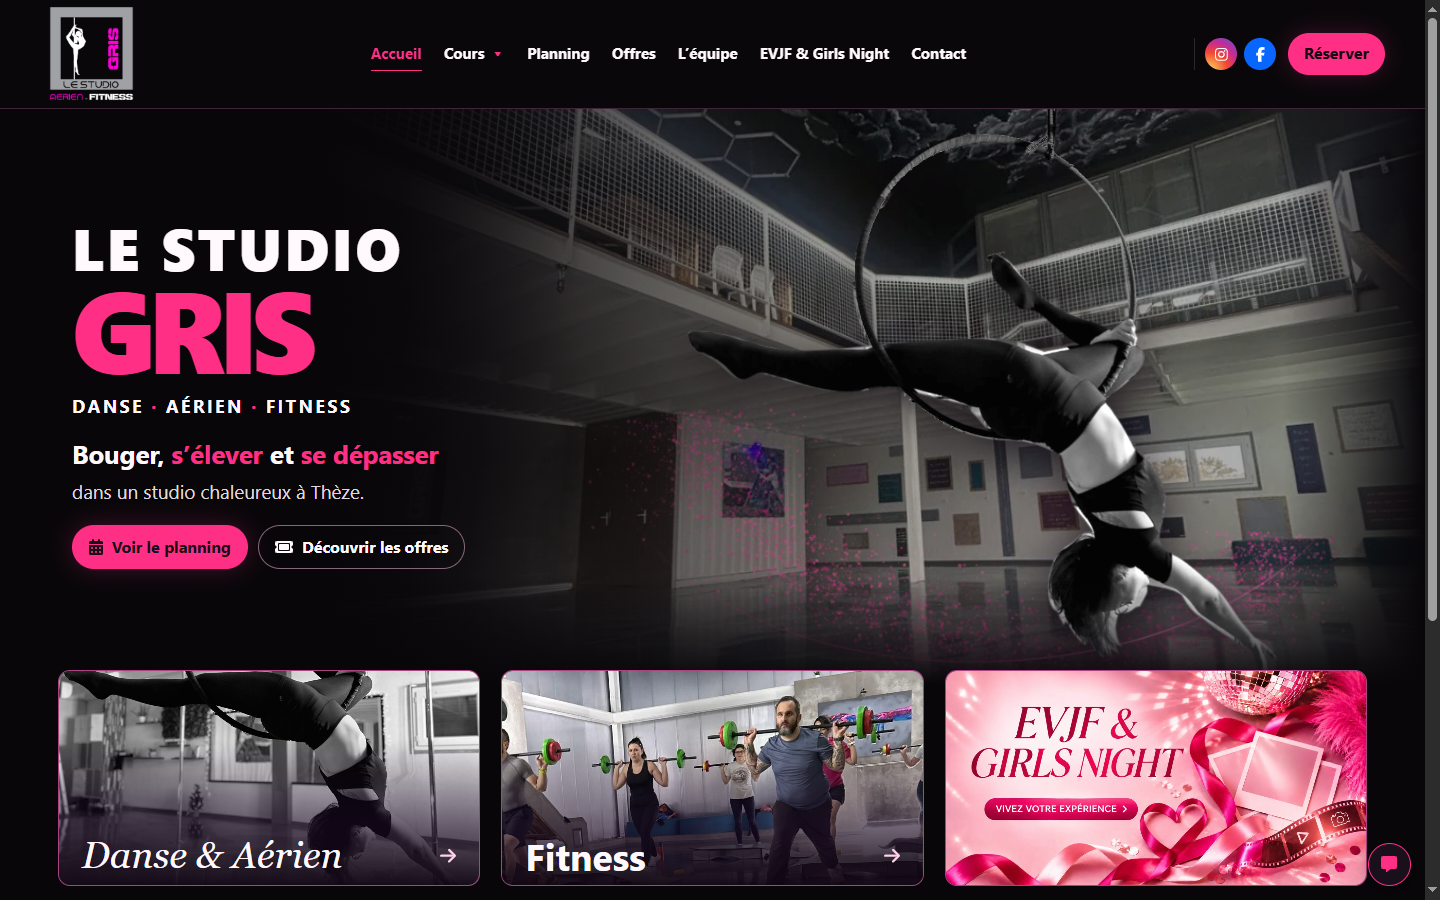
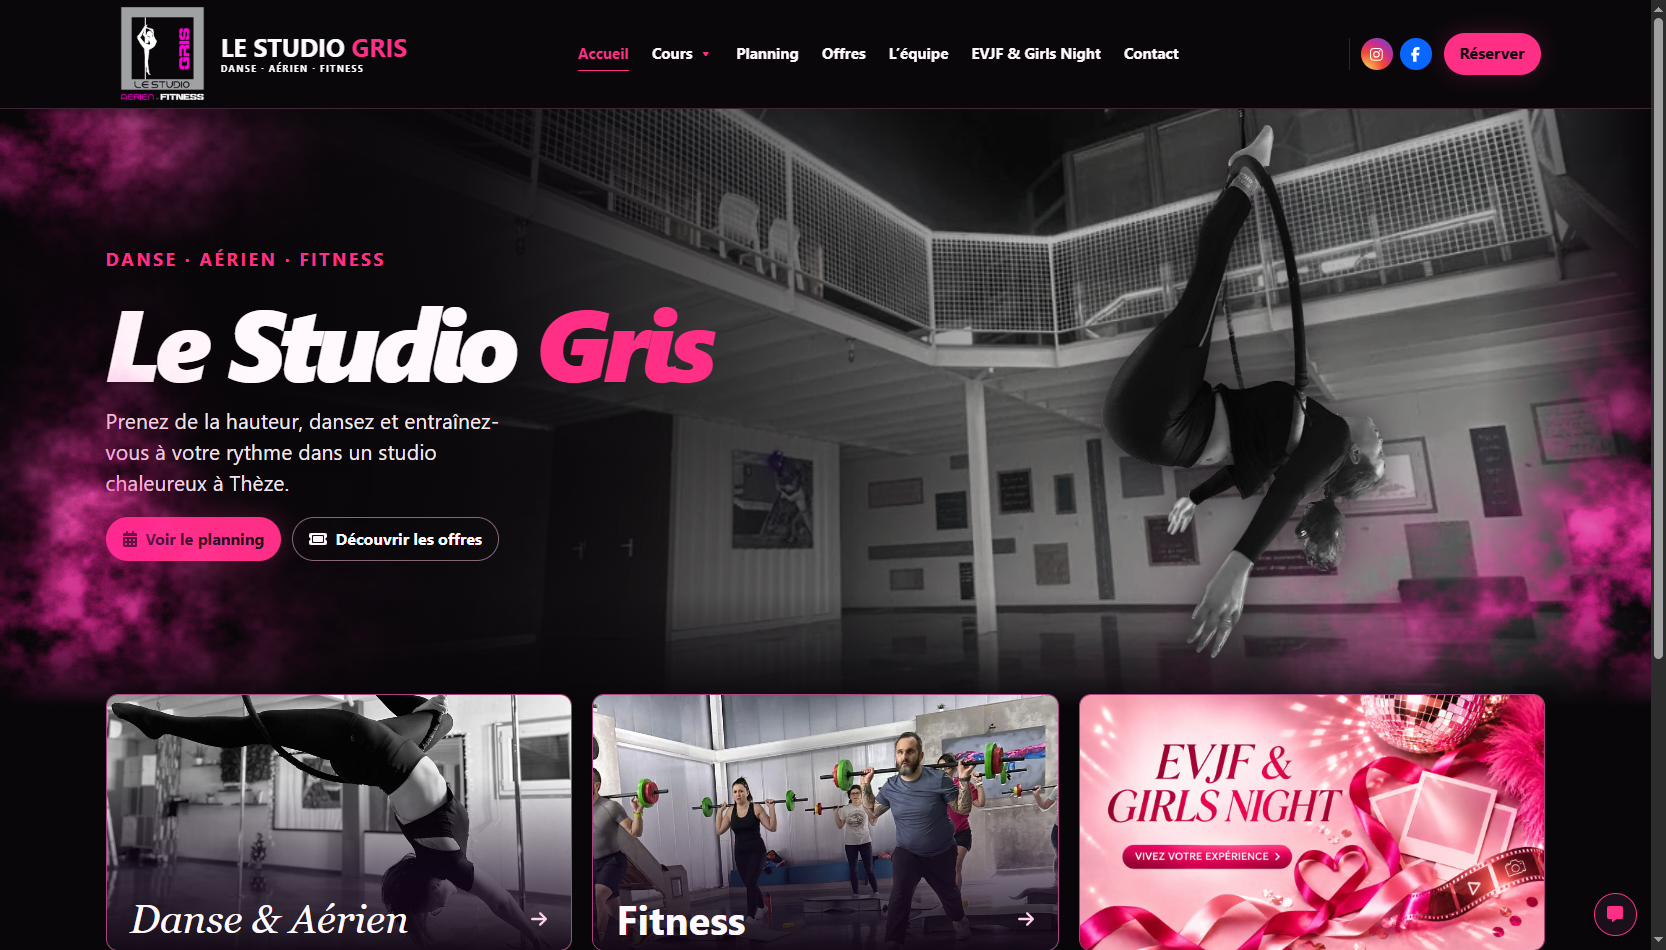
MAJ

diff --git a/src/styles/home.css b/src/styles/home.css
@@ -11,18 +11,19 @@
   background: linear-gradient(0deg, var(--home-ink), transparent 19%), linear-gradient(90deg, var(--home-ink) 1%, #080609e8 28%, #08060900 62%, #08060900 90%, var(--home-ink));
 }
 .hero-art img { position: absolute; }
-.hero-room { height: 100%; width: 78%; right: 0; object-fit: cover; object-position: 53% 56%; opacity: .8; mask-image: linear-gradient(90deg, transparent, #000 24%); }
-.hero-aerial { height: 106%; width: auto; max-width: none; right: clamp(4%, 10vw, 16%); top: -4%; filter: brightness(1.12) drop-shadow(0 8px 22px #0b030bbb); }
-.hero-dust { width: min(61vw, 890px); height: auto; bottom: -25%; right: 1%; opacity: .95; }
+.hero-room { height: 100%; width: 88%; right: 0; object-fit: cover; object-position: 53% 57%; opacity: .86; filter: grayscale(.76); mask-image: linear-gradient(90deg, transparent, #000 30%); }
+.hero-aerial { z-index: 2; height: 94%; width: auto; max-width: none; right: clamp(10%, 15vw, 22%); bottom: clamp(1.1rem, 2.5vw, 2.4rem); filter: brightness(1.06) drop-shadow(0 3px 16px #0b030b99); }
+.hero-dust {
+  width: 100%; height: 100%; object-fit: fill; inset: 0; z-index: 1; opacity: .92;
+  mask-image: linear-gradient(to bottom, #000 0 77%, #000c 86%, #0005 94%, transparent 100%);
+}
 .hero-inner { min-height: clamp(402px, 63svh, 630px); width: min(var(--home-width), 100% - clamp(2rem, 10vw, 11rem)); margin-inline: auto; display: flex; align-items: center; position: relative; }
 .hero-copy { padding: 2rem 0 2.6rem; }
-.hero-copy h1 { display: grid; width: fit-content; font-size: clamp(4rem, 8vw, 9rem); font-weight: 850; line-height: .8; letter-spacing: -.069em; text-transform: uppercase; margin-bottom: 1.15rem; }
-.hero-copy h1 span { font-size: .51em; letter-spacing: .05em; line-height: 1.15; }
-.hero-copy em { font-style: normal; color: var(--pink); }
-.hero-disciplines { color: #fff7fb; font-size: clamp(.83rem, 1.5vw, 1.15rem); letter-spacing: .12em; text-transform: uppercase; font-weight: 700; margin-bottom: 1rem; }
+.hero-copy h1 { font-size: clamp(3.25rem, 6.1vw, 7.4rem); font-weight: 850; font-style: italic; line-height: 1; letter-spacing: -.055em; margin-bottom: .85rem; }
+.hero-copy em { font-style: inherit; color: var(--pink); }
+.hero-disciplines { color: var(--pink); font-size: clamp(.83rem, 1.5vw, 1.15rem); letter-spacing: .12em; text-transform: uppercase; font-weight: 700; margin-bottom: 1rem; }
 .hero-disciplines span { color: var(--pink); }
-.hero-tagline { font-weight: 700; font-size: clamp(1.12rem, 2vw, 1.6rem); line-height: 1.35; margin-bottom: 1.25rem; }
-.hero-tagline small { color: #e1d8df; font-size: .74em; font-weight: 400; }
+.hero-tagline { color: #f2e8ee; max-width: 37ch; font-size: clamp(1rem, 1.65vw, 1.33rem); line-height: 1.45; margin-bottom: 1.25rem; }
 .hero-copy .primary-button, .hero-copy .secondary-button { gap: .55rem; }
 .hero-copy .primary-button { box-shadow: 0 0 24px #ff2f8640; }
 .hero-copy .secondary-button { background: #0c080e9c; border-color: #d5c4cf; }
@@ -46,19 +47,19 @@
 }
 @media (max-width: 900px) {
   .hero-inner { min-height: clamp(385px, 66vw, 495px); }
-  .hero-aerial { right: -1%; height: 94%; top: 0; }
+  .hero-aerial { right: 9%; height: 91%; }
   .hero-art::after { background: linear-gradient(0deg, var(--home-ink), transparent 28%), linear-gradient(90deg, var(--home-ink), #080609c9 30%, transparent 75%); }
 }
 @media (max-width: 610px) {
   .hero-inner { align-items: end; min-height: 560px; width: calc(100% - 2rem); }
   .hero-copy { padding: 1rem 0 1.7rem; }
-  .hero-copy h1 { font-size: clamp(3.5rem, 16vw, 5.2rem); margin-bottom: .7rem; }
+  .hero-copy h1 { font-size: clamp(2.6rem, 10vw, 4.4rem); margin-bottom: .7rem; }
   .hero-disciplines { margin-bottom: .6rem; }
   .hero-tagline { margin-bottom: .9rem; }
   .hero-art { bottom: auto; height: 385px; }
   .hero-room { width: 100%; object-position: center 54%; mask-image: none; }
-  .hero-aerial { right: max(-1rem, calc(50% - 180px)); top: -1.5rem; height: 90%; }
-  .hero-dust { width: min(110vw, 500px); bottom: -10%; right: -10%; }
+  .hero-aerial { right: max(1.75rem, calc(48% - 95px)); bottom: 1.4rem; height: 90%; }
+  .hero-dust { width: 112%; left: -6%; height: 103%; opacity: .82; }
   .hero-art::after { background: linear-gradient(0deg, var(--home-ink), #080609c9 14%, transparent 54%); }
   .home-universes { grid-template-columns: 1fr; width: calc(100% - 2rem); margin-top: 0; }
   .universe-card-label { justify-content: flex-start; gap: .6rem; font-size: clamp(1.55rem, 7vw, 2.4rem); }

diff --git a/src/pages/HomePage.tsx b/src/pages/HomePage.tsx
@@ -24,15 +24,15 @@ export default function HomePage() {
     <section className="immersive-hero">
       <div className="hero-art">
         <img className="hero-room" src={media + 'salle.webp'} width="1050" height="1037" alt="" loading="eager" />
-        <img className="hero-dust" src={media + 'poudre-rose.webp'} width="800" height="700" alt="" />
-        <img className="hero-aerial" src={media + 'cerceau-detoure.webp'} width="790" height="804"
+        <img className="hero-dust" src={media + 'brume-fuchsia.webp'} width="1000" height="430" alt="" />
+        <img className="hero-aerial" src={media + 'cerceau-pose-sophie.webp'} width="480" height="870"
           alt="Une pratiquante au cerceau aérien dans la salle du Studio Gris" loading="eager" />
       </div>
       <div className="hero-inner">
         <div className="hero-copy">
-          <h1><span>Le Studio</span> <em>Gris</em></h1>
           <p className="hero-disciplines">Danse <span>·</span> Aérien <span>·</span> Fitness</p>
-          <p className="hero-tagline">Bouger, <em>s’élever</em> et <em>se dépasser</em><br /><small>dans un studio chaleureux à Thèze.</small></p>
+          <h1>Le Studio <em>Gris</em></h1>
+          <p className="hero-tagline">Prenez de la hauteur, dansez et entraînez-vous à votre rythme dans un studio chaleureux à Thèze.</p>
           <div className="button-row">
             <Link className="primary-button" to="/planning"><FontAwesomeIcon icon={faCalendarDays} /> Voir le planning</Link>
             <Link className="secondary-button" to="/offers"><FontAwesomeIcon icon={faTicket} /> Découvrir les offres</Link>

diff --git a/src/styles/layout.css b/src/styles/layout.css
@@ -84,3 +84,11 @@ button, input, select, textarea { font: inherit; }
 .breadcrumb ol { display: flex; flex-wrap: wrap; gap: .25rem .65rem; margin: 0; padding: .85rem 0 0; list-style: none; color: var(--muted); font-size: .875rem; }
 .breadcrumb li + li::before { content: "/"; margin-right: .65rem; color: var(--muted); }
 .breadcrumb a { text-decoration: underline; text-underline-offset: .18em; }
+
+.home-wordmark { display: none; }
+@media (min-width: 1180px) {
+  .site-header .site-logo { display: flex; align-items: center; gap: .45rem; }
+  .home-wordmark { display: block; font-size: clamp(1.05rem, 1.6vw, 1.55rem); font-weight: 790; line-height: 1.03; text-transform: uppercase; white-space: nowrap; }
+  .home-wordmark em { color: var(--pink); font-style: normal; }
+  .home-wordmark small { display: block; margin-top: .32rem; font-size: .58rem; letter-spacing: .13em; }
+}

diff --git a/src/components/layout/Header.tsx b/src/components/layout/Header.tsx
@@ -43,6 +43,7 @@ export default function Header() {
       <div className="site-header__inner">
         <Link to="/" className="site-logo" onClick={closeMenus}>
           <img src={studio.logo} width="591" height="591" alt="Le Studio Gris, accueil" />
+          {location.pathname === '/' && <span className="home-wordmark" aria-hidden="true">Le Studio <em>Gris</em><small>Danse · Aérien · Fitness</small></span>}
         </Link>
         <nav ref={nav} id="main-navigation" aria-label="Navigation principale" className={mobileOpen ? 'site-nav is-open' : 'site-nav'}>
           <NavLink to="/" end onClick={closeMenus}>Accueil</NavLink>
